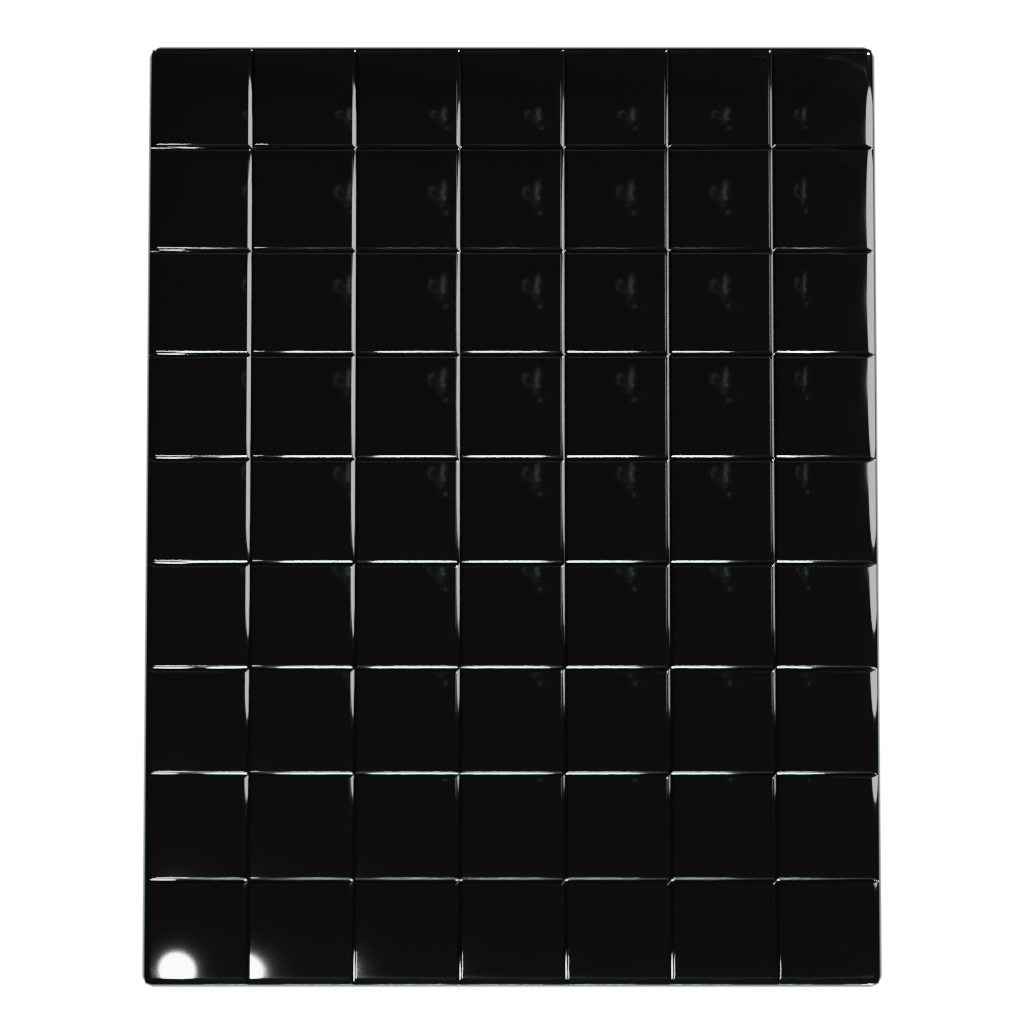
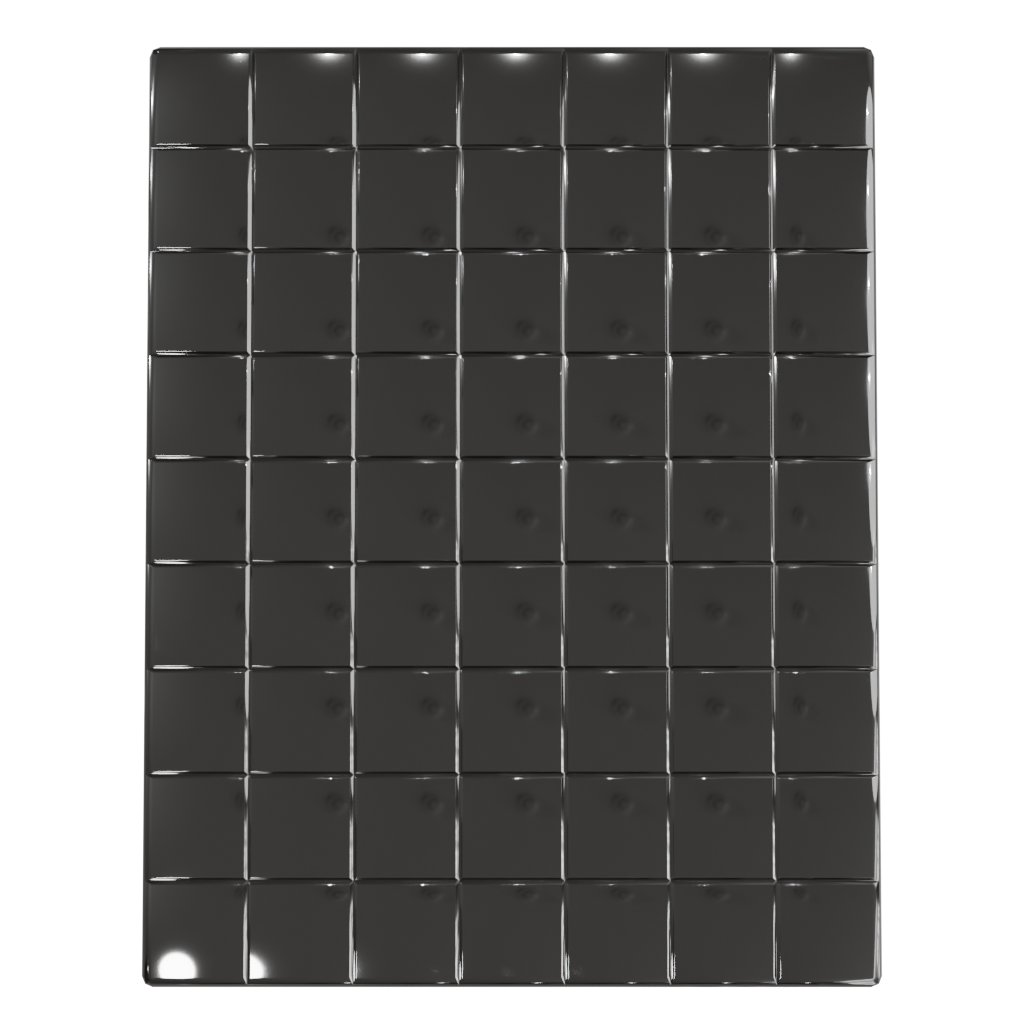
Reflect a ceiling the board can actually see
The viewport reference was a 3D view in Rendered shading with Scene
World off - Cycles shading it, lit by a studio HDRI rather than by
the scene. So the render needed the same thing, not the softboxes I
faked it with first.

Which file matters, and it is measurable: the camera looks down, so a
flat cell mirrors the CEILING, and across Blender's studio lights
studio.exr's brightest ceiling source is 458 against interior.exr's
35744. Two orders of magnitude - which is why raising studio.exr's
strength to 12 still showed nothing while interior.exr shows the
fixtures at strength 1.

Desaturated, because interior.exr is a warm room and the sheet came
back brown; the board wants the shape of those fixtures, not the
colour of the lamps in them.

diff --git a/tools/blender/render_items.py b/tools/blender/render_items.py
@@ -3262,8 +3262,13 @@ def build_board_slab():
 
 
 # Which of Blender's own studio HDRIs lights the board, and how hard.
-BOARD_HDRI = "studio.exr"
-BOARD_HDRI_STRENGTH = 3.0
+# INTERIOR, not studio. The camera looks down, so what a flat cell
+# mirrors is the CEILING - and measured across Blender's studio
+# lights, studio.exr's brightest ceiling source is 458 while
+# interior.exr's is 35744. Two orders of magnitude, and round: those
+# are the blobs the viewport was showing.
+BOARD_HDRI = "interior.exr"
+BOARD_HDRI_STRENGTH = 1.0
 
 
 def _board_environment():
@@ -3294,7 +3299,33 @@ def _board_environment():
         bpy.utils.system_resource('DATAFILES', path="studiolights/world"),
         BOARD_HDRI)
     environment.image = bpy.data.images.load(path, check_existing=True)
-    links.new(environment.outputs["Color"], background.inputs["Color"])
+
+    # TURNED WITH THE CAMERA, which is the thing the viewport does and
+    # a render does not.
+    #
+    # The reference was a 3D view in Rendered shading with Scene World
+    # off - Cycles shading it, but lit by this same studio HDRI rather
+    # than by the scene. Blender rotates that studio light WITH the
+    # view, so its lamps sit in the same place on the board however
+    # you orbit. A render's world is fixed in world space, so those
+    # lamps land somewhere off frame and the glass mirrors nothing.
+    #
+    # Rotating the environment by the camera's own orientation puts
+    # them back where the preview had them.
+    coords = nodes.new("ShaderNodeTexCoord")
+    mapping = nodes.new("ShaderNodeMapping")
+    camera = bpy.context.scene.camera
+    if camera is not None:
+        mapping.inputs["Rotation"].default_value = camera.rotation_euler
+    links.new(coords.outputs["Generated"], mapping.inputs["Vector"])
+    links.new(mapping.outputs["Vector"], environment.inputs["Vector"])
+    # NEUTRALISED. interior.exr is a warm room and the sheet came back
+    # brown; the board wants the SHAPE of those ceiling fixtures, not
+    # the colour of the lamps in them.
+    grey = nodes.new("ShaderNodeHueSaturation")
+    grey.inputs["Saturation"].default_value = 0.0
+    links.new(environment.outputs["Color"], grey.inputs["Color"])
+    links.new(grey.outputs["Color"], background.inputs["Color"])
     links.new(background.outputs["Background"], output.inputs["Surface"])
     return world
 
